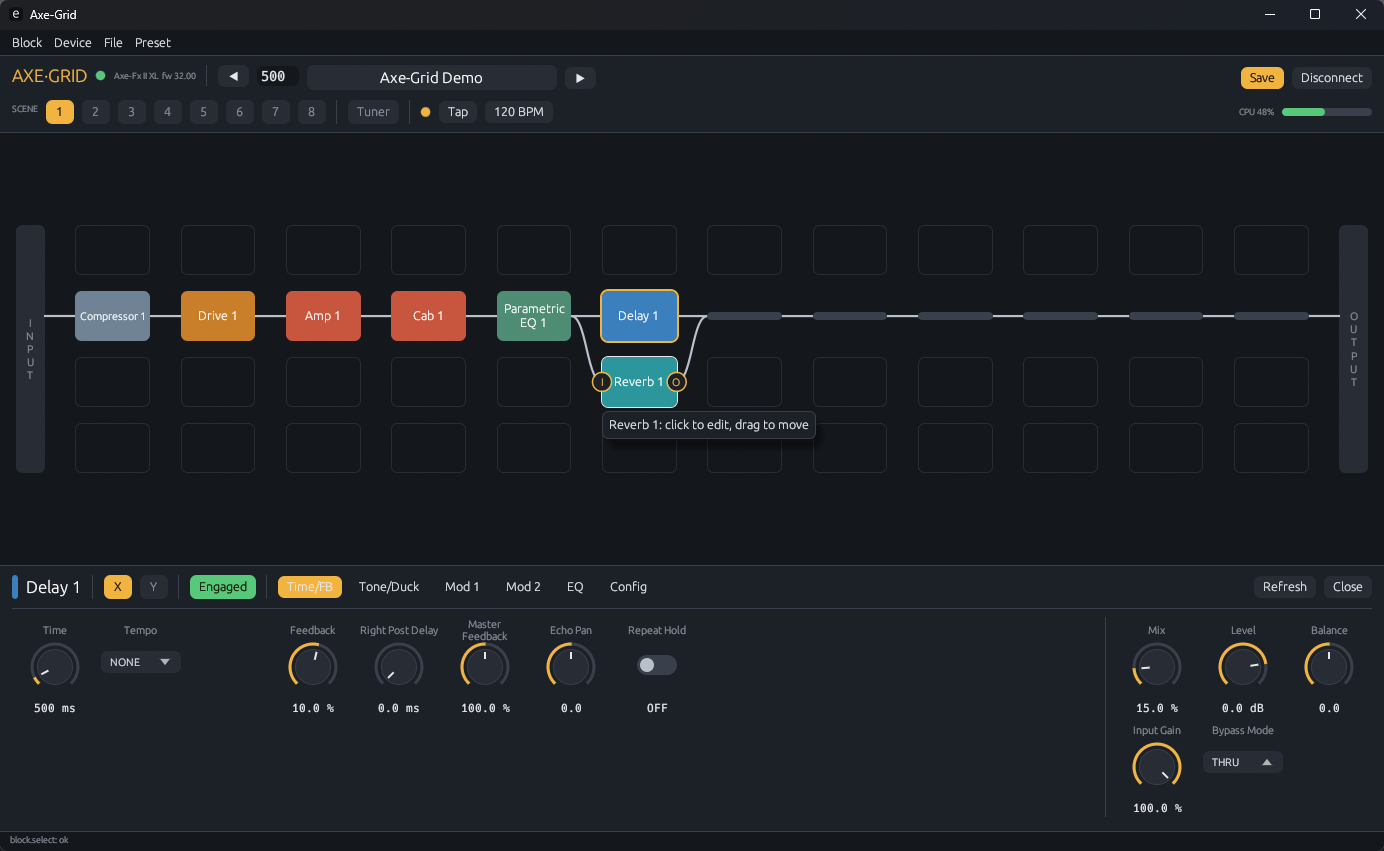
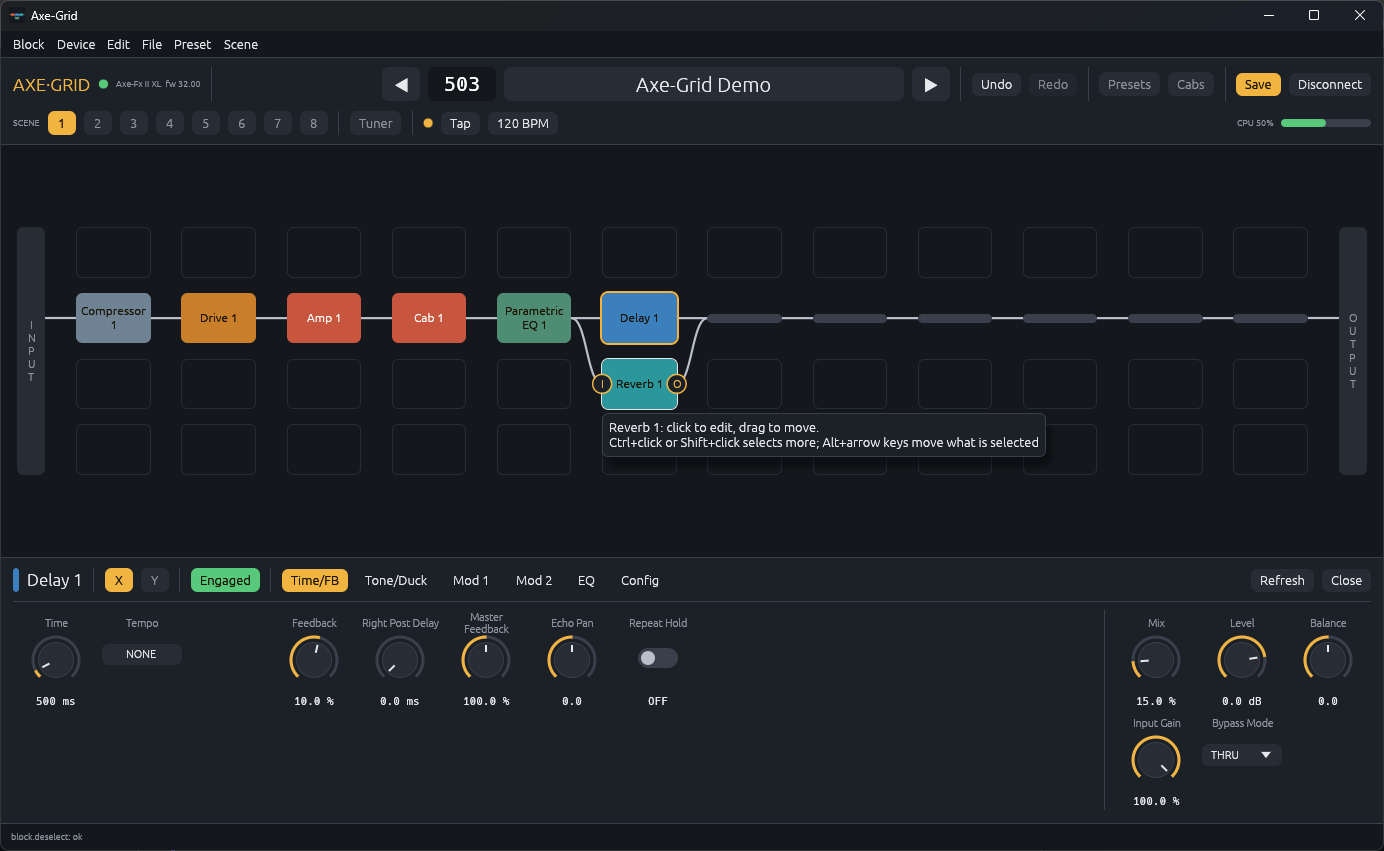
Retake the README screenshots and show the browser and group selection
Retake the five screenshots with the new top bar and text colours, and
add two: the amp model browser and a group of selected blocks. List the
new images in ATTRIBUTION.md.

diff --git a/README.md b/README.md
@@ -100,7 +100,7 @@ Every screenshot here is the real app, connected to an Axe-Fx II XL.
 <table>
   <tr>
     <td width="50%" valign="top">
-      <img src="docs/images/axe-grid-routing.png" alt="The routing grid with a delay and a reverb in parallel; the pointer is over the reverb block, which shows an I handle on its left and an O handle on its right, and the delay block's Time and Feedback page is open below" width="100%">
+      <img src="docs/images/axe-grid-routing.png" alt="The routing grid with a delay and a reverb in parallel; the pointer is over the reverb block, which shows an I handle on its left, an O handle on its right and a hint about selecting and moving blocks, and the delay block's Time and Feedback page is open below" width="100%">
       <br>
       <sub>Hovering a block shows its input and output handles. Below, the delay's first page.</sub>
       <h3>Route it the way you think</h3>
@@ -109,7 +109,7 @@ Every screenshot here is the real app, connected to an Axe-Fx II XL.
       Series, parallel, split and merge: the grid shows what the unit holds, read back after every change.
     </td>
     <td width="50%" valign="top">
-      <img src="docs/images/axe-grid-parametric-eq.png" alt="The Parametric EQ block's first page: frequency, Q and gain knobs for bands 1 and 5 on the left and a frequency-response curve with five numbered band markers on the right, showing a low shelf boost and a high shelf boost" width="100%">
+      <img src="docs/images/axe-grid-parametric-eq.png" alt="The Parametric EQ block's first page: frequency, Q and gain knobs for bands 1 and 5 on the left and a frequency-response curve with five numbered band markers on the right, showing a low shelf boost, a dip in the mids and a high shelf boost" width="100%">
       <br>
       <sub>The Parametric EQ's curve follows the knobs as you turn them.</sub>
       <h3>Every page, every knob</h3>
@@ -136,6 +136,26 @@ Every screenshot here is the real app, connected to an Axe-Fx II XL.
       Preset number and name, scenes, <b>Tuner</b>, <b>Tap</b> tempo with a beat light, an editable BPM, and a CPU meter that updates as you add blocks.
       <br><br>
       Looper transport buttons light up from the unit's own status, and Tone Match starts both captures with one press.
+    </td>
+  </tr>
+  <tr>
+    <td width="50%" valign="top">
+      <img src="docs/images/axe-grid-amp-browser.png" alt="The amp model browser open over the app: a search box and five columns of numbered amp models read from the unit, with the current model highlighted" width="100%">
+      <br>
+      <sub>The amp model browser. The names are read from the unit.</sub>
+      <h3>Browse long lists</h3>
+      Amp models, cabs and every other long list open in a window of numbered columns. Type a name or a number to narrow it, click to hear a choice, and double-click or press Enter to keep it.
+      <br><br>
+      The <b>Presets</b> and <b>Cabs</b> windows use the same columns, and their names are kept on your computer, so they are there the moment the unit connects.
+    </td>
+    <td width="50%" valign="top">
+      <img src="docs/images/axe-grid-multi-select.png" alt="The routing grid with the drive, amp and cab blocks outlined as one selection" width="100%">
+      <br>
+      <sub>Drive, amp and cab selected together.</sub>
+      <h3>Move blocks together</h3>
+      Ctrl+click or Shift+click blocks, or drag a box around them, then drag the group or nudge it with Alt and the arrow keys. The cables between the blocks you move go with them.
+      <br><br>
+      A group move is one step to undo.
     </td>
   </tr>
 </table>

diff --git a/ATTRIBUTION.md b/ATTRIBUTION.md
@@ -13,7 +13,7 @@ Every file in this repository that was not written for it is listed here.
 
 | `assets/icon/axe-grid.svg` | The app icon: a routing grid with one cable | Drawn for this project | MIT, with the rest of the repository |
 | `assets/icon/axe-grid.png`, `assets/icon/axe-grid.ico` | The same icon as bitmaps, for the window, the Windows executables and shortcuts | Rendered from `assets/icon/axe-grid.svg` by `scripts/render-icon.py` | MIT, with the rest of the repository |
-| `docs/images/axe-grid-amp.png`, `docs/images/axe-grid-parametric-eq.png`, `docs/images/axe-grid-routing.png`, `docs/images/axe-grid-output-mixer.png`, `docs/images/axe-grid-tuner.png` | Screenshots of Axe-Grid for the README | Captured from this project's own app, connected to a maintainer's Axe-Fx II XL showing a preset built for the purpose. The amp type name visible in one of them is text the device reported at run time | MIT, with the rest of the repository |
+| `docs/images/axe-grid-amp.png`, `docs/images/axe-grid-parametric-eq.png`, `docs/images/axe-grid-routing.png`, `docs/images/axe-grid-output-mixer.png`, `docs/images/axe-grid-tuner.png`, `docs/images/axe-grid-amp-browser.png`, `docs/images/axe-grid-multi-select.png` | Screenshots of Axe-Grid for the README | Captured from this project's own app, connected to a maintainer's Axe-Fx II XL showing a preset built for the purpose. The amp type name visible in one of them, and the list of amp model names in the amp browser screenshot, are text the device reported at run time | MIT, with the rest of the repository |
 
 There are no fonts, sounds, presets or impulse responses in this repository,
 and no images other than the icon (in three formats) and the screenshots listed above. The
